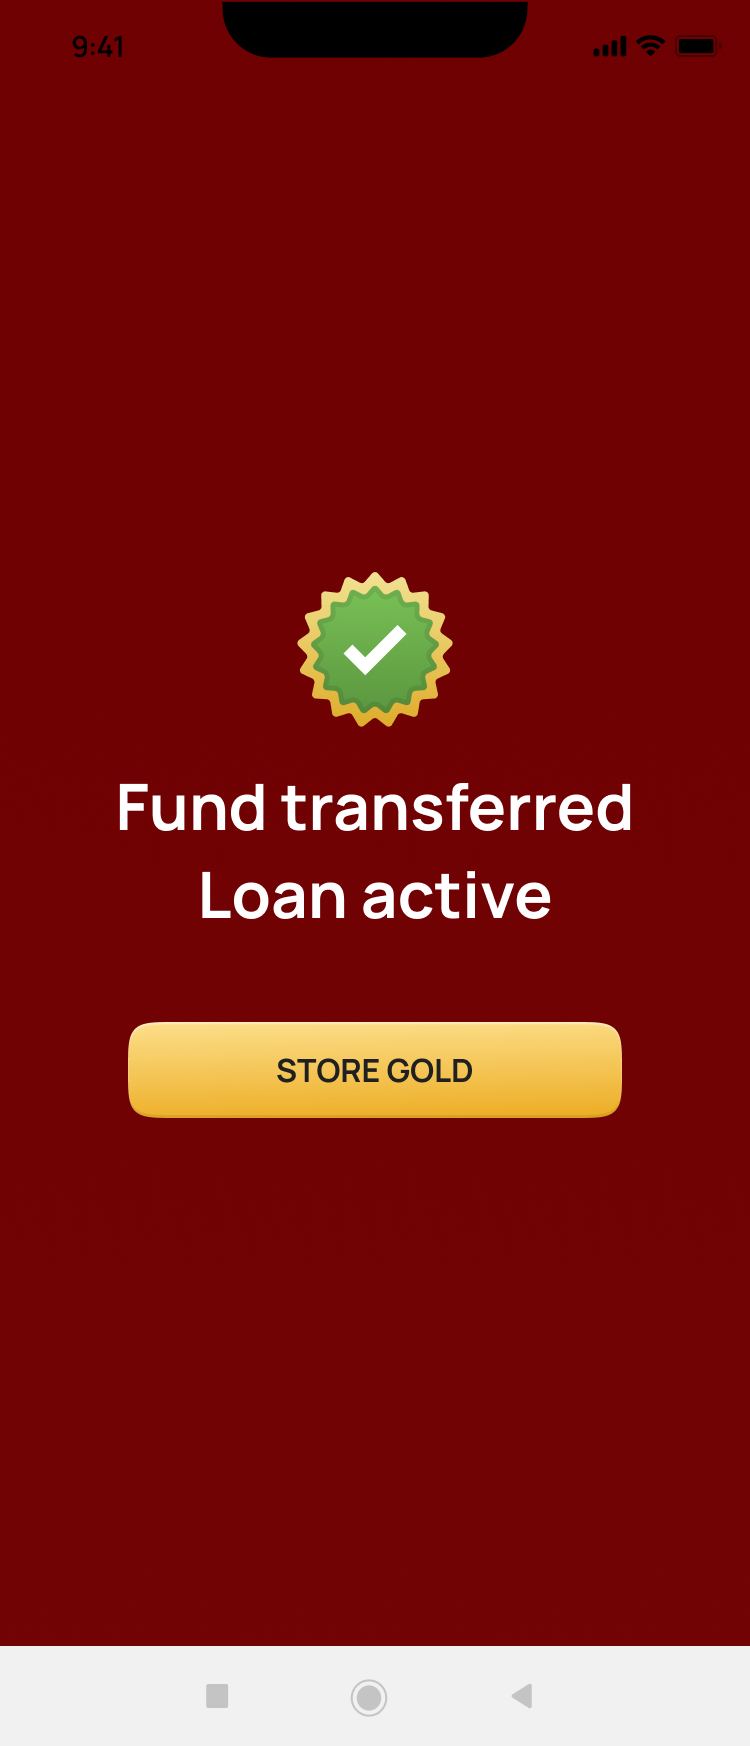
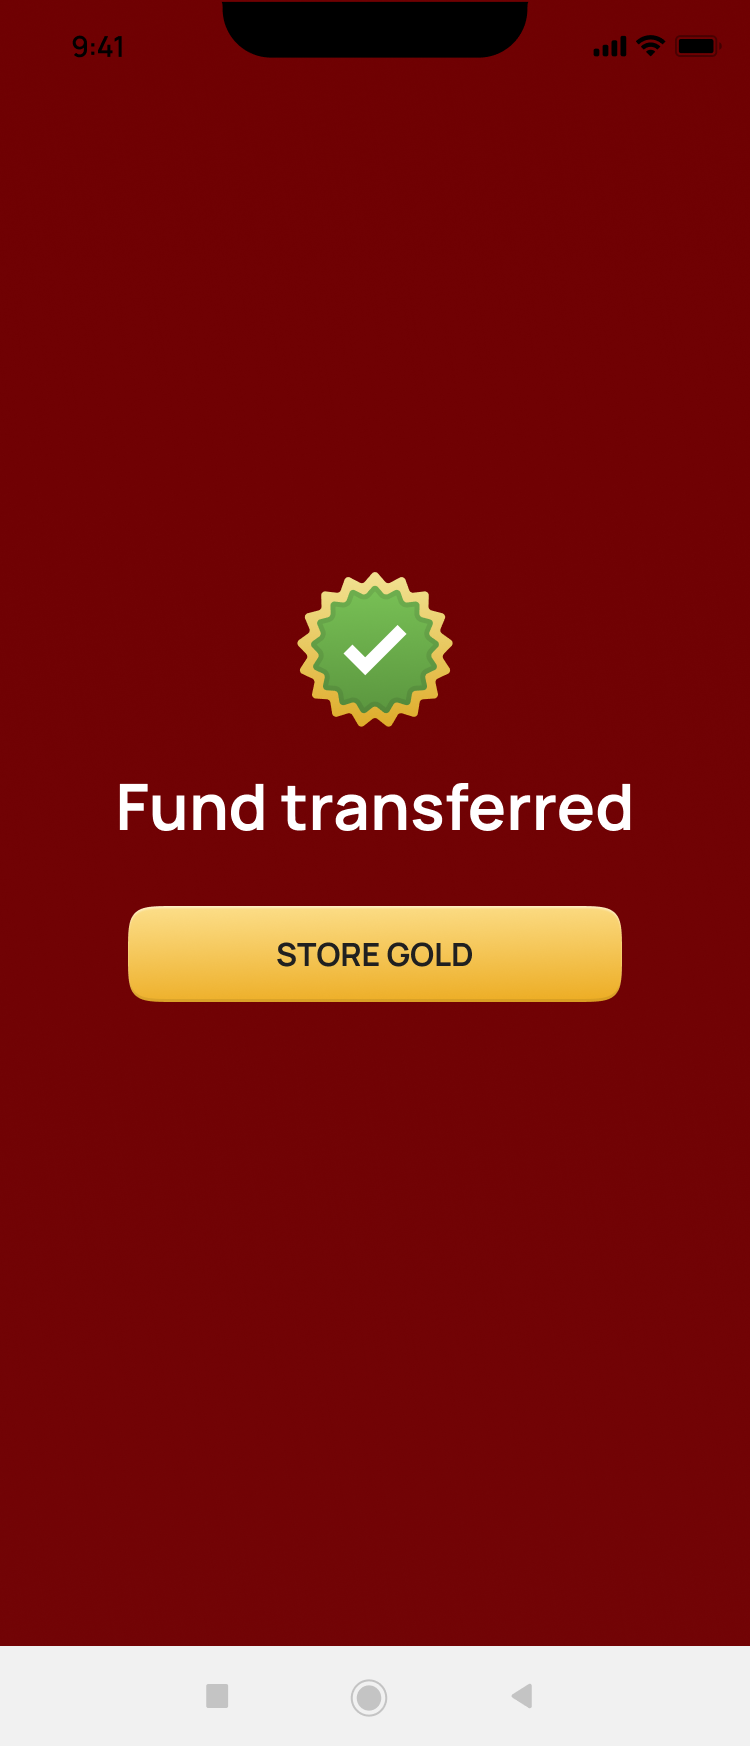
Rebuild Admin from updated section (Tenmark→Lord Fincap); Branch: fund-transfer-in-progress, liveliness after PAN
- Admin: rebuilt from section 1468:38812 as single 28-screen lifecycle (Login → pending approval → gold valuation review → approve → FT in progress → fund transferred → gold stored → users/loans/bank/nominees); Activity Log kept; no Tenmark.
- Branch: added Fund transfer in progress after e-sign; updated Fund transferred (STORE GOLD); moved liveliness check to after Aadhaar/PAN verification. Now 89 screens.

Claude-Session: https://claude.ai/code/session_0169ihkDwJnameAL4jCiZFtg

Changed region(s): [[0.1533, 0.4948, 0.828, 0.6495]]

diff --git a/index.html b/index.html
@@ -177,8 +177,6 @@ const BRANCH=[
  {i:'s08.png',l:'Onboarding',t:'Verify email',c:'The agent captures the customer’s email to send a 6-digit OTP.'},
  {i:'s09.png',l:'Onboarding',t:'Verify using OTP',c:'The agent confirms the customer’s email OTP.'},
  {i:'s10.png',l:'Onboarding',t:'Email verified',c:'The customer’s email is verified.'},
- {i:'s11.png',l:'Onboarding',t:'Liveliness check',c:'The agent captures the customer’s live selfie — face framed in the circle, looking straight.'},
- {i:'s12.png',l:'Onboarding',t:'Liveliness check',c:'The customer’s face is detected and captured.'},
  {i:'s13.png',l:'Onboarding',t:'Privacy policy & terms',c:'The customer accepts the privacy policy and terms on the agent’s device.'},
  {i:'s14.png',l:'Onboarding',t:'Choose city',c:'The agent selects the operating city — Chennai, Hyderabad, Pune or Vijayawada.'},
  {i:'s15.png',l:'Onboarding',t:'Keep documents handy',c:'A checklist of the customer’s Aadhaar and PAN the agent needs for the ID flow.'},
@@ -191,6 +189,8 @@ const BRANCH=[
  {i:'s22.png',l:'Onboarding',t:'Upload PAN',c:'The agent photographs the customer’s PAN card.'},
  {i:'s23.png',l:'Onboarding',t:'Upload PAN',c:'The PAN image is captured.'},
  {i:'s24.png',l:'Onboarding',t:'PAN verified',c:'The customer’s PAN is verified.'},
+ {i:'s11.png',l:'Onboarding',t:'Liveliness check',c:'With ID verified, the agent captures the customer’s live selfie — face framed in the circle, looking straight.'},
+ {i:'s12.png',l:'Onboarding',t:'Liveliness check',c:'The customer’s face is detected and captured.'},
  {i:'s25.png',l:'Onboarding',t:'Father’s name',c:'The agent records the customer’s father’s name.'},
  {i:'s26.png',l:'Onboarding',t:'Mother’s name',c:'The agent records the customer’s mother’s name, as per Aadhaar.'},
  {i:'s27.png',l:'Onboarding',t:'Marital status',c:'The agent records the customer’s marital status and spouse name.'},
@@ -236,7 +236,8 @@ const BRANCH=[
  {i:'s60.png',l:'Credit',t:'Submit for approval',c:'The agent submits the completed loan to admin for approval.'},
  {i:'s61.png',l:'Approval',t:'Approval in progress',c:'The loan waits for admin approval — the agent can see the status.'},
  {i:'s62.png',l:'Approval',t:'Loan approved — eSign in progress',c:'The ₹8,00,000 loan is approved and the customer e-signs the agreement on the agent’s device.'},
- {i:'s64.png',l:'Disbursal',t:'Fund transferred — loan active',c:'The money reaches the customer’s account and the loan goes Active. Next, the agent seals and stores the pledged gold.'},
+ {i:'ftp.png',l:'Disbursal',t:'Fund transfer in progress',c:'After the customer e-signs, disbursal is initiated — the app shows the transfer processing.'},
+ {i:'s64.png',l:'Disbursal',t:'Fund transferred',c:'The money reaches the customer’s account. Next, the agent seals and stores the pledged gold.'},
  {i:'sg1.png',l:'Store gold',t:'Upload seal photo',c:'The agent seals the pledged gold (total net weight 106.82 g) in a tamper-evident packet and photographs it inside the guide.'},
  {i:'sg2.png',l:'Store gold',t:'Locker number',c:'The agent assigns the sealed packet a locker (123456) and saves its photo — add more angles, then store the gold.'},
  {i:'sg3.png',l:'Store gold',t:'Gold stored',c:'The gold is locked in custody — the loan is fully live and the agent heads back.'},
@@ -257,34 +258,34 @@ const BRANCH=[
  {i:'s79.png',l:'Servicing',t:'Visit cancelled',c:'The visit is cancelled.'},
 ];
 const ADMIN=[
- {i:'assets/admin/a10.png',l:'Loan Visits',t:'All loan visits',a:'admin.lordfincap.com/loan-visits',c:'The admin landing — every loan visit with loan ID, amount, customer, agent and parent-loan status. Filter by All, Pending approval, In progress, Rejected or Cancelled; search; and open any loan to act on it.'},
- {i:'assets/admin/a01.png',l:'Gold rate',t:'Gold rates',a:'admin.lordfincap.com/gold-rate',c:'Every gold rate with its status. The live rate feeds loan eligibility across all plans.'},
- {i:'assets/admin/a02.png',l:'Gold rate',t:'Add a new rate',a:'admin.lordfincap.com/gold-rate/new',c:'Adding a gold rate through a quick modal.'},
- {i:'assets/admin/a03.png',l:'Gold rate',t:'Rate added',a:'admin.lordfincap.com/gold-rate',c:'The new rate is saved and goes live.'},
- {i:'assets/admin/a04.png',l:'Plan config',t:'Plans',a:'admin.lordfincap.com/plans',c:'Every loan plan — type and status — in one table.'},
- {i:'assets/admin/a05.png',l:'Plan config',t:'Create a plan',a:'admin.lordfincap.com/plans/new',c:'The plan builder — plan name, scheme name and scheme ID, and the branches it applies to.'},
- {i:'assets/admin/a06.png',l:'Plan config',t:'Plan details',a:'admin.lordfincap.com/plans/new',c:'Plan validity and details — type (monthly interest), tenure, min/max amount, penal interest, LTV and lender interest — ready to save.'},
- {i:'assets/admin/a07.png',l:'Plan config',t:'Plan created',a:'admin.lordfincap.com/plans/new',c:'The plan is created — a confirmation before it goes live.'},
- {i:'assets/admin/a08.png',l:'Plan config',t:'Plan detail',a:'admin.lordfincap.com/plans/gl-b-special-extra-mini-0625',c:'The saved plan — rate details and foreclosure slabs.'},
- {i:'assets/admin/a11.png',l:'Approve',t:'Loan pending approval',a:'admin.lordfincap.com/loans/LFL0000017',c:'A submitted loan opens on its summary with Approve and Reject — review every tab first.'},
- {i:'assets/admin/a20.png',l:'Approve',t:'Loan documents',a:'admin.lordfincap.com/loans/LFL0000017/docs',c:'The gold-loan documents to view or download.'},
- {i:'assets/admin/a21.png',l:'Approve',t:'Gold details',a:'admin.lordfincap.com/loans/LFL0000017/gold',c:'Appraisal details and each gold item pledged, with photos.'},
- {i:'assets/admin/a22.png',l:'Approve',t:'Visit details',a:'admin.lordfincap.com/loans/LFL0000017/visit',c:'When the field visit was initiated and completed.'},
- {i:'assets/admin/a23.png',l:'Approve',t:'Customer details',a:'admin.lordfincap.com/loans/LFL0000017/customer',c:'Aadhaar, PAN, liveness, income and address captured in the field.'},
- {i:'assets/admin/actlog.png',l:'Approve',t:'Activity log',a:'admin.lordfincap.com/loans/LFL0000017/activity',c:'A timestamped audit trail of the whole loan, in flow order — visit requested → confirmed → assigned to the agent → agent started to and reached the customer → OTP verified → Lender KYC completed → gold valuation started & completed → eKYC → submitted for approval → GL approved → e-Sign completed → fund transferred → gold images uploaded → gold stored. Sort latest-first or export.'},
- {i:'assets/admin/a12.png',l:'Approve',t:'Approve the loan',a:'admin.lordfincap.com/loans/LFL0000017',c:'Confirming the plan, amount and disbursal account before approving.'},
- {i:'assets/admin/a13.png',l:'Approve',t:'Confirm approval',a:'admin.lordfincap.com/loans/LFL0000017',c:'A final confirmation — are you sure you want to approve the loan?'},
- {i:'assets/admin/a14.png',l:'Approve',t:'Gold loan approved',a:'admin.lordfincap.com/loans/LFL0000017',c:'The gold loan is approved.'},
- {i:'assets/admin/a15.png',l:'Approve',t:'Loan active',a:'admin.lordfincap.com/loans/LFL0000017',c:'Approved and disbursed — the gold loan is now Active.'},
- {i:'assets/admin/a16.png',l:'Reject',t:'Reject the loan',a:'admin.lordfincap.com/loans/LFL0000017',c:'A pending loan can instead be rejected with a reason — recorded against the loan.'},
- {i:'assets/admin/a17.png',l:'Reject',t:'Loan rejected',a:'admin.lordfincap.com/loans/LFL0000017',c:'The loan is marked Rejected.'},
- {i:'assets/admin/a18.png',l:'Reject',t:'Rejected loan record',a:'admin.lordfincap.com/loans/LFL0000017',c:'The loan summary in its rejected state, on the record.'},
- {i:'assets/admin/a24.png',l:'Customer',t:'User details',a:'admin.lordfincap.com/users/LFL0000559',c:'The customer’s full KYC profile and credit score (824).'},
- {i:'assets/admin/a25.png',l:'Customer',t:'Bank accounts',a:'admin.lordfincap.com/users/LFL0000559/bank',c:'Verified bank accounts on file.'},
- {i:'assets/admin/a26.png',l:'Customer',t:'Credit report',a:'admin.lordfincap.com/users/LFL0000559/credit',c:'Credit report from Lord Fincap — score and bureau detail.'},
- {i:'assets/admin/a27.png',l:'Customer',t:'Emails & nominees',a:'admin.lordfincap.com/users/LFL0000559/nominees',c:'Verified emails and the customer’s nominees.'},
- {i:'assets/admin/a28.png',l:'Customer',t:'Underwriting',a:'admin.lordfincap.com/users/LFL0000559/underwriting',c:'The SFL underwriting view with the latest credit report.'},
- {i:'assets/admin/a29.png',l:'Customer',t:'Customer loans',a:'admin.lordfincap.com/users/LFL0000559/loans',c:'Every loan this customer holds.'},
+ {i:'assets/admin/n01.png',l:'Sign in',t:'Sign in',a:'admin.lordfincap.com/login',c:'The admin signs in to the Lord Fincap console with Google.'},
+ {i:'assets/admin/n02.png',l:'Gold rate',t:'Gold rates',a:'admin.lordfincap.com/gold-rate',c:'Every gold rate — 22-carat quality, rate, validity and status. The live rate drives loan eligibility across all plans.'},
+ {i:'assets/admin/n03.png',l:'Gold rate',t:'Add a new rate',a:'admin.lordfincap.com/gold-rate/new',c:'Adding a 22-carat rate (₹12,000/g) through a quick modal.'},
+ {i:'assets/admin/n04.png',l:'Gold rate',t:'Rate added',a:'admin.lordfincap.com/gold-rate',c:'The new rate is saved and goes live.'},
+ {i:'assets/admin/n05.png',l:'Plan config',t:'Create a plan',a:'admin.lordfincap.com/plans/new',c:'The plan builder — plan overview, scheme name and scheme ID.'},
+ {i:'assets/admin/n06.png',l:'Plan config',t:'Plan details',a:'admin.lordfincap.com/plans/new',c:'Plan validity, details and processing-fee details filled in, ready to save.'},
+ {i:'assets/admin/n07.png',l:'Plan config',t:'Plan created',a:'admin.lordfincap.com/plans/new',c:'The plan is created — a confirmation before it goes live.'},
+ {i:'assets/admin/n08.png',l:'Plan config',t:'Plan detail',a:'admin.lordfincap.com/plans/lord-fincap-elite-saver-0225',c:'The saved plan — details, foreclosure slabs, linked plans and interest slabs. Lender: Lord Fincap.'},
+ {i:'assets/admin/n09.png',l:'Loan Visits',t:'Loan visits',a:'admin.lordfincap.com/loan-visits',c:'Every loan visit with its status — All, Approval pending, Fund transfer pending, Funds transferred, Gold stored. Search and open any loan.'},
+ {i:'assets/admin/n10.png',l:'Approve',t:'Loan pending approval',a:'admin.lordfincap.com/loans/TCGL0001010',c:'A submitted loan (TCGL0001010) opens on Loan Details — Approve the loan, or review each tab first.'},
+ {i:'assets/admin/n11.png',l:'Approve',t:'Gold details',a:'admin.lordfincap.com/loans/TCGL0001010/gold',c:'Reviewing the pledged gold items — necklace, chain, earrings.'},
+ {i:'assets/admin/n12.png',l:'Approve',t:'Gold item detail',a:'admin.lordfincap.com/loans/TCGL0001010/gold',c:'Each jewel in detail — type, weights and valuation.'},
+ {i:'assets/admin/actlog.png',l:'Approve',t:'Activity log',a:'admin.lordfincap.com/loans/TCGL0001010/activity',c:'A timestamped audit trail of the whole loan, in flow order — visit requested through gold stored.'},
+ {i:'assets/admin/n13.png',l:'Approve',t:'Fund transfer details',a:'admin.lordfincap.com/loans/TCGL0001010/fund-transfer',c:'The customer’s bank accounts for disbursal are verified — the Approve loan button is now enabled.'},
+ {i:'assets/admin/n14.png',l:'Approve',t:'Approve the loan',a:'admin.lordfincap.com/loans/TCGL0001010',c:'Confirming the disbursal account before approving.'},
+ {i:'assets/admin/n15.png',l:'Approve',t:'Confirm approval',a:'admin.lordfincap.com/loans/TCGL0001010',c:'A final check — are you sure you want to approve the loan?'},
+ {i:'assets/admin/n16.png',l:'Approve',t:'Loan approved',a:'admin.lordfincap.com/loans/TCGL0001010',c:'The loan is approved.'},
+ {i:'assets/admin/n17.png',l:'Disbursal',t:'Loan approved',a:'admin.lordfincap.com/loans/TCGL0001010',c:'The approved loan — ₹10,10,000, ready for fund transfer.'},
+ {i:'assets/admin/n18.png',l:'Disbursal',t:'Fund transfer details',a:'admin.lordfincap.com/loans/TCGL0001010/fund-transfer',c:'The transfer breakdown by account, pending transfer.'},
+ {i:'assets/admin/n19.png',l:'Disbursal',t:'Record fund transfer',a:'admin.lordfincap.com/loans/TCGL0001010/fund-transfer',c:'Recording the fund transfer with amount and account details.'},
+ {i:'assets/admin/n20.png',l:'Disbursal',t:'Fund transfer recorded',a:'admin.lordfincap.com/loans/TCGL0001010/fund-transfer',c:'₹5,00,000 fund transfer recorded successfully.'},
+ {i:'assets/admin/n21.png',l:'Disbursal',t:'Fund transferred',a:'admin.lordfincap.com/loans/TCGL0001010',c:'The loan is now Fund Transferred — loan progress and each transfer on record.'},
+ {i:'assets/admin/n22.png',l:'Store gold',t:'Gold stored',a:'admin.lordfincap.com/loans/TCGL0001010/gold',c:'Gold details with seal information — the pledged gold is stored in custody.'},
+ {i:'assets/admin/n23.png',l:'Customer',t:'Users',a:'admin.lordfincap.com/users',c:'The customer directory — 120 users with mobile, added date, latest visit and active loans.'},
+ {i:'assets/admin/n24.png',l:'Customer',t:'User details',a:'admin.lordfincap.com/users/TCGL0000355',c:'A customer’s full KYC — Aadhaar, PAN, liveness and address.'},
+ {i:'assets/admin/n25.png',l:'Customer',t:'Loans',a:'admin.lordfincap.com/users/TCGL0000355/loans',c:'The customer’s loans — active and previous, with status.'},
+ {i:'assets/admin/n26.png',l:'Customer',t:'Bank accounts',a:'admin.lordfincap.com/users/TCGL0000355/bank',c:'The customer’s verified bank accounts on file.'},
+ {i:'assets/admin/n27.png',l:'Customer',t:'Emails & nominees',a:'admin.lordfincap.com/users/TCGL0000355/nominees',c:'The customer’s verified emails and nominees.'},
 ];
 
 const SECTION_TITLE={